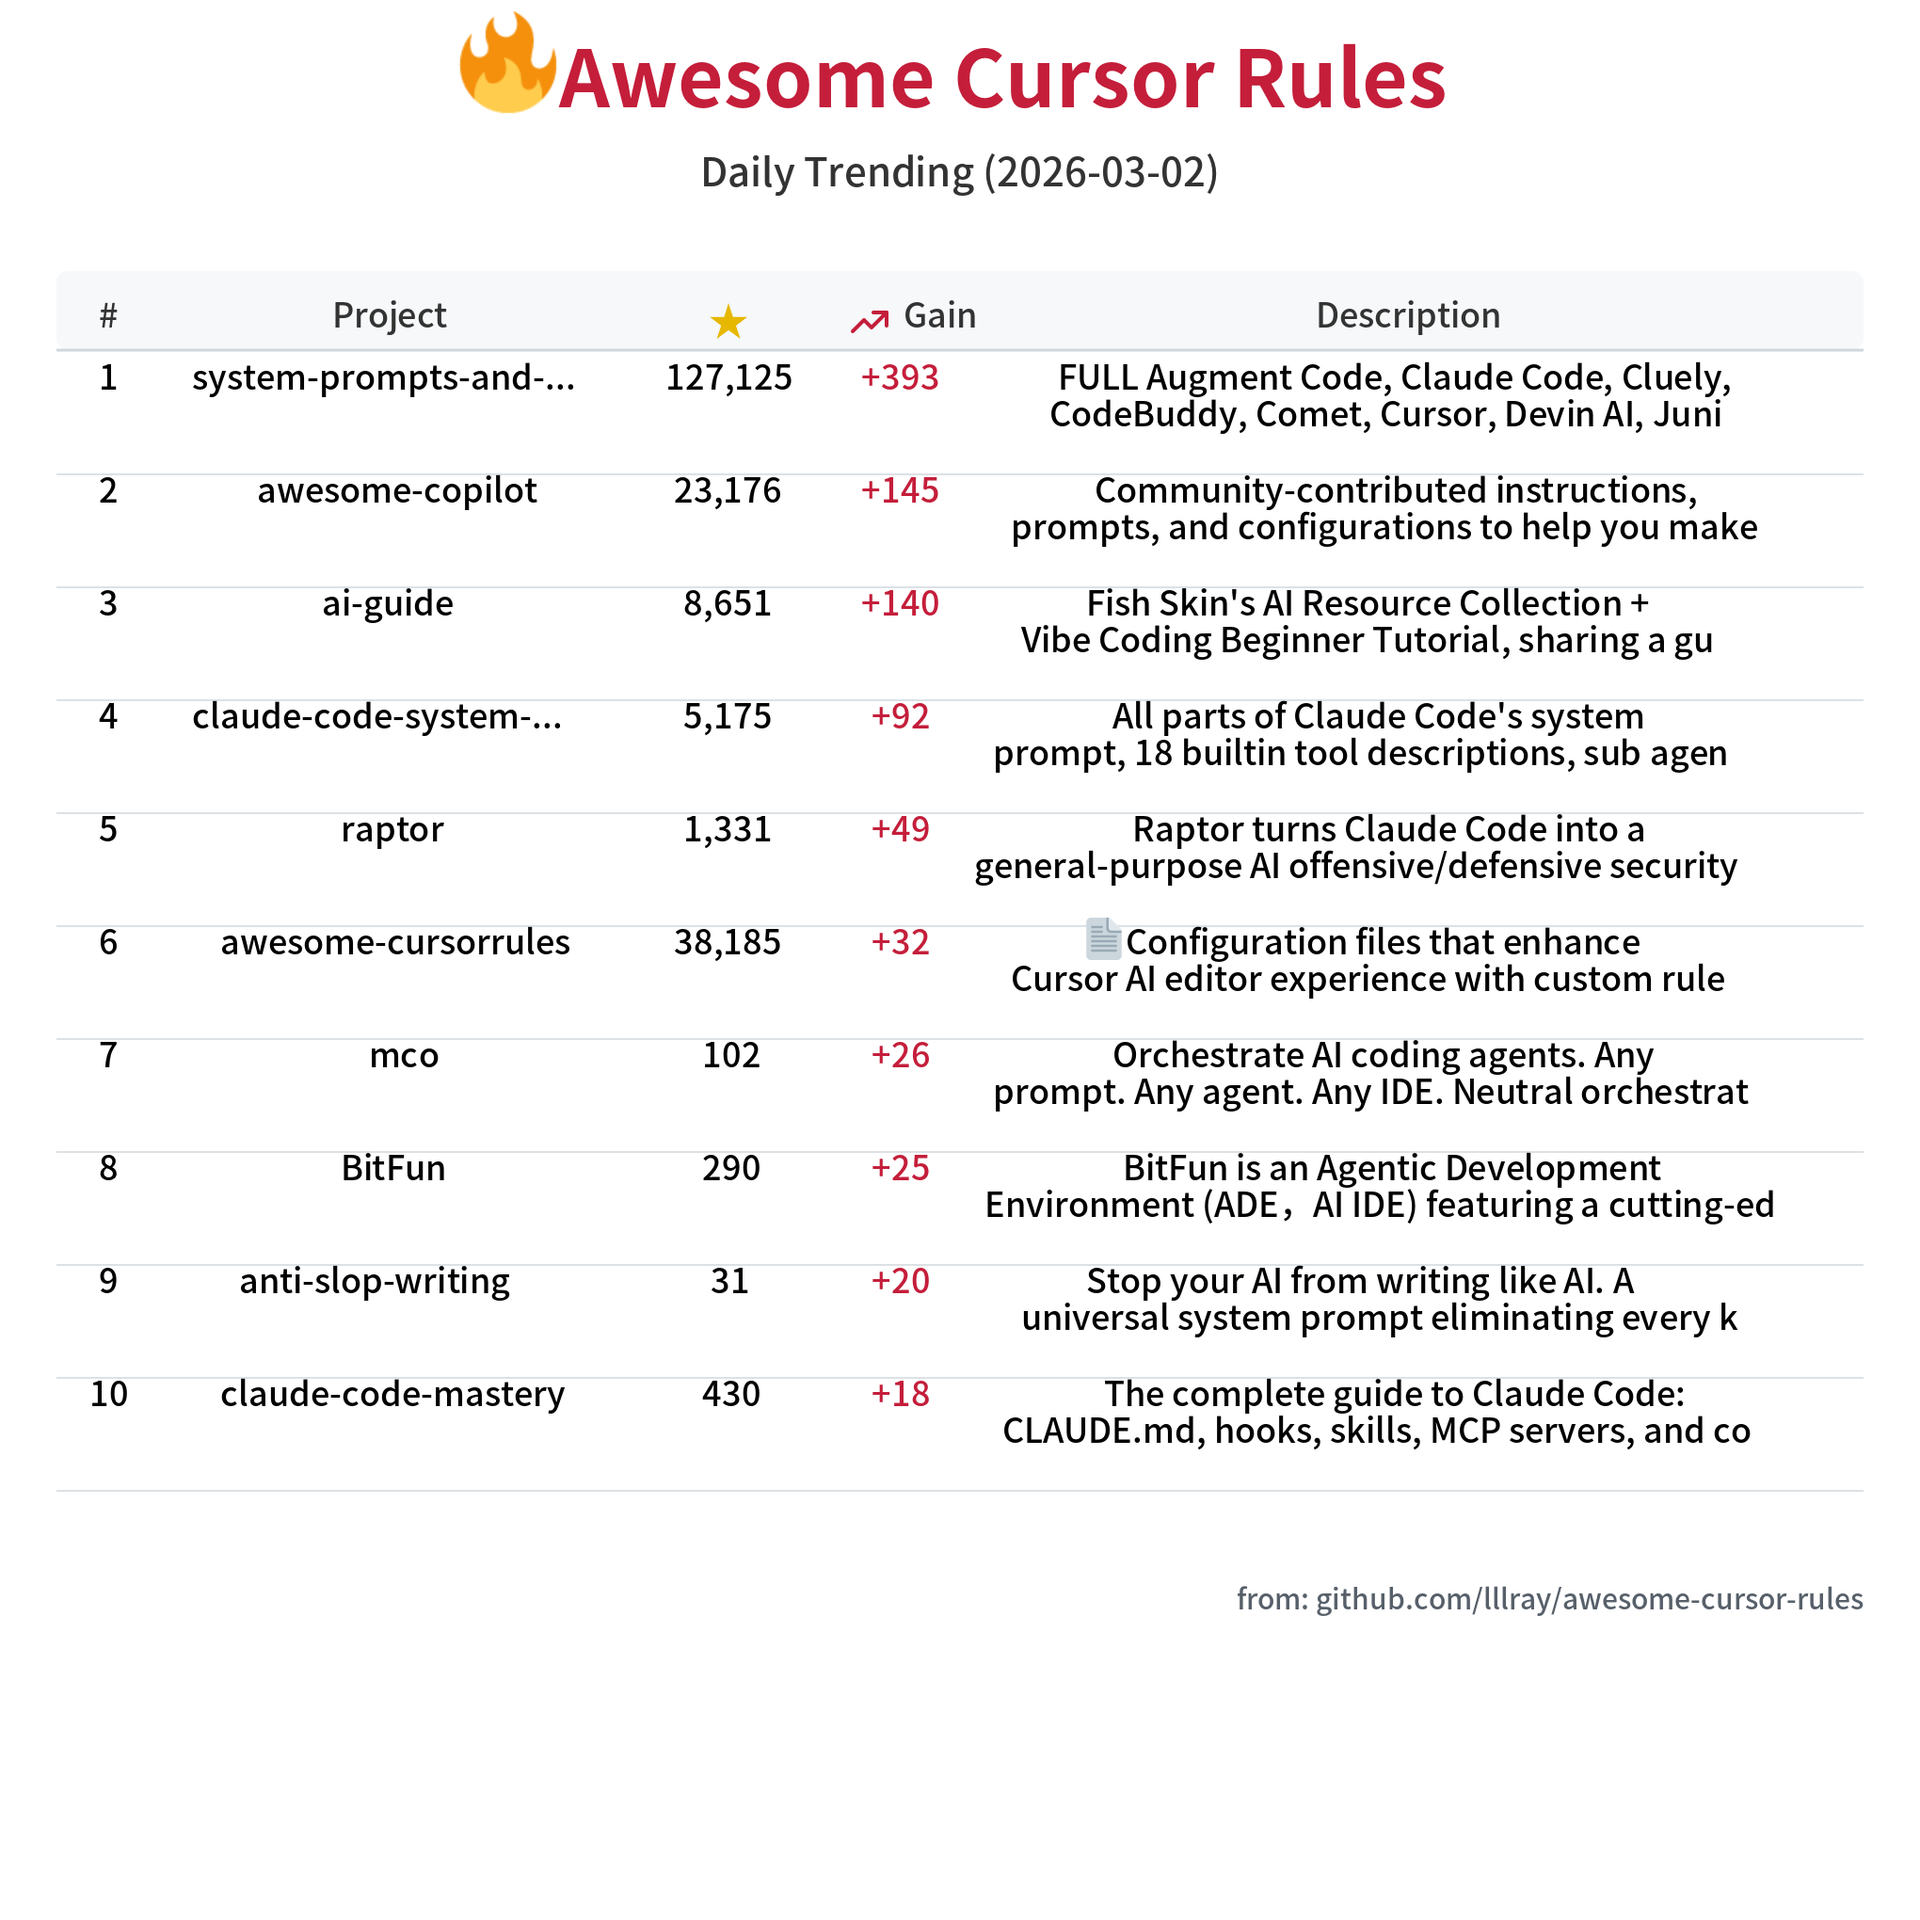
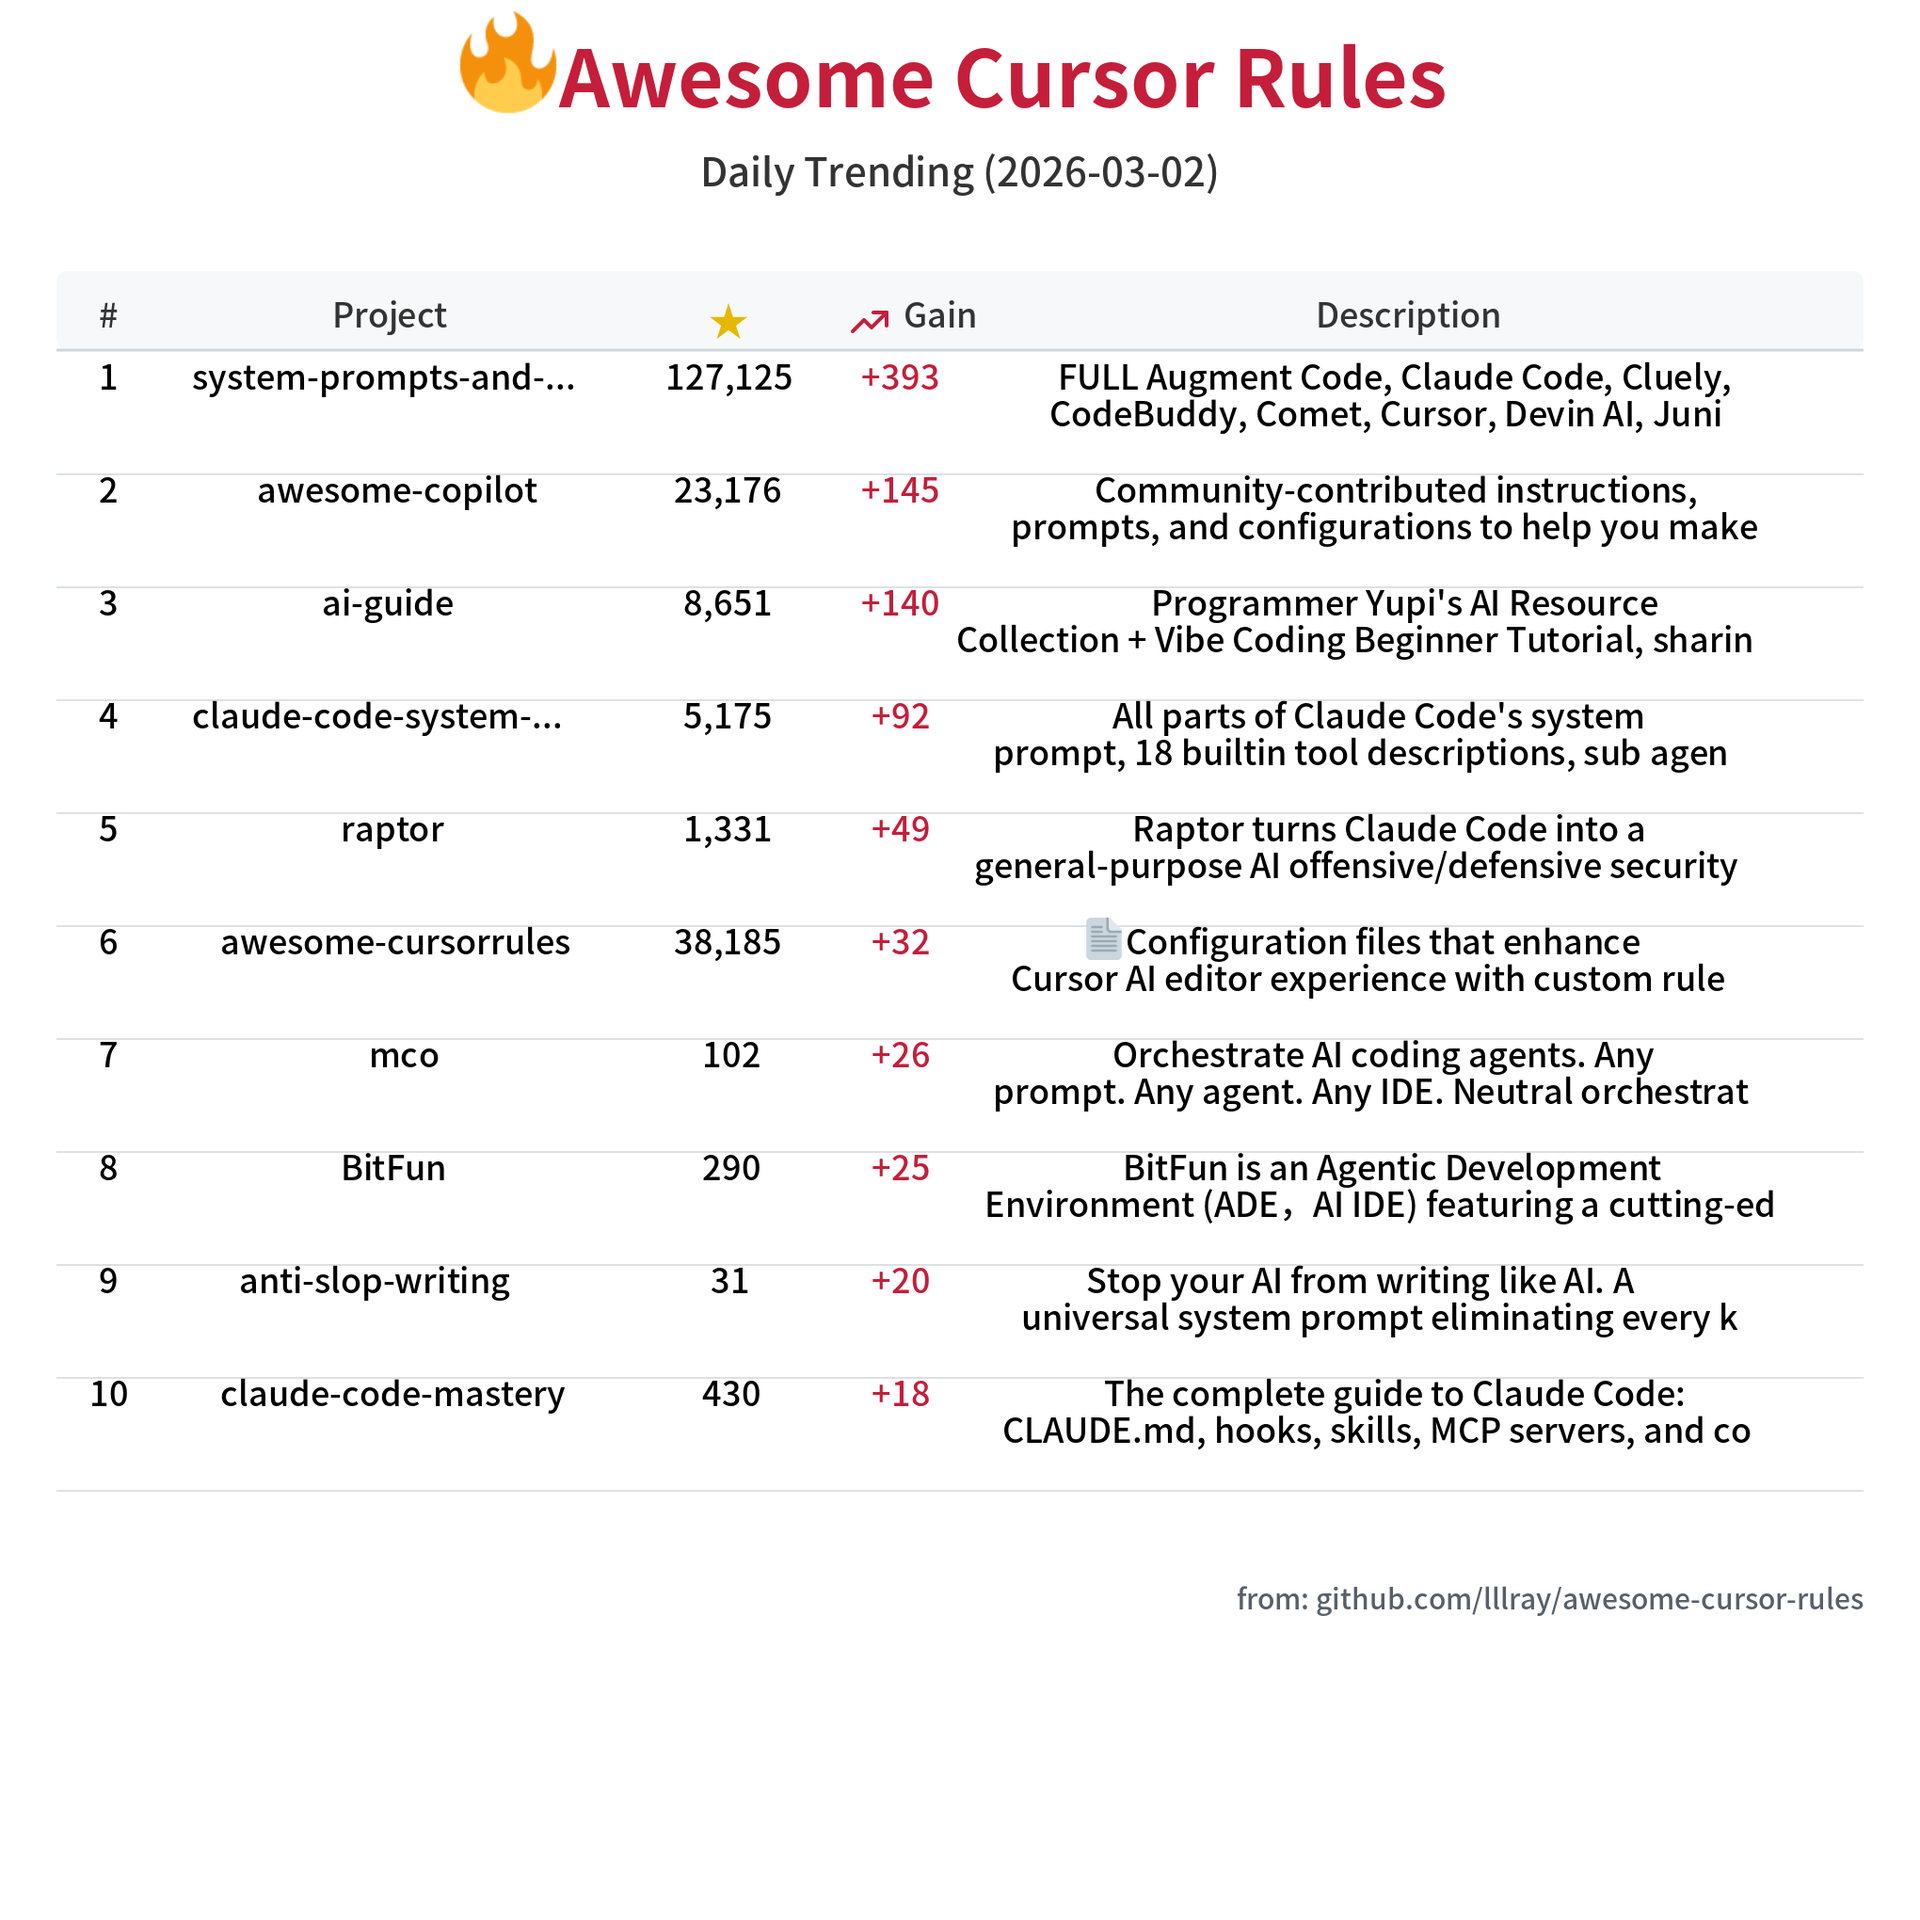
docs: 重新翻译每日热门描述 - 2026-03-02 21:51:18

Changed region(s): [[0.4941, 0.3088, 0.8956, 0.3397]]

diff --git a/README_ZH.md b/README_ZH.md
@@ -35,25 +35,25 @@
 | # | 项目 | ⭐ | 📈 日增 | 描述 |
 |:-:|------|---:|-------:|------|
 | 1 | [x1xhlol/system-prompts-and-models-of-ai-tools](https://github.com/x1xhlol/system-prompts-and-models-of-ai-tools) | 127,125 | +393 | 完整增强代码,克劳德代码,克鲁利,代码Buddy,彗星,课程,德文AI,朱尼,基罗,Leap.new... |
-| 2 | [github/awesome-copilot](https://github.com/github/awesome-copilot) | 23,176 | +145 | 社区贡献的指令、提示和配置，帮助您充分利用 GitHub Copilot。 |
+| 2 | [github/awesome-copilot](https://github.com/github/awesome-copilot) | 23,176 | +145 | 社区贡献的指令、提示和配置，帮助您充分利用GitHub Copilot。 |
 | 3 | [liyupi/ai-guide](https://github.com/liyupi/ai-guide) | 8,651 | +140 | 程序员鱼皮的AI 资源大全 + 振动编码 零基础教程,分享大模型选择指南(DeepSeek / GP... |
-| 4 | [Piebald-AI/claude-code-system-prompts](https://github.com/Piebald-AI/claude-code-system-prompts) | 5,175 | +92 | All parts of Claude Code's system prompt, 18 built... |
-| 5 | [gadievron/raptor](https://github.com/gadievron/raptor) | 1,331 | +49 | Raptor turns Claude Code into a general-purpose AI... |
-| 6 | [PatrickJS/awesome-cursorrules](https://github.com/PatrickJS/awesome-cursorrules) | 38,185 | +32 |  通过定制规则和行为来增强Cursor AI编辑体验的配置文件 |
-| 7 | [mco-org/mco](https://github.com/mco-org/mco) | 102 | +26 | Orchestrate AI coding agents. Any prompt. Any agen... |
-| 8 | [GCWing/BitFun](https://github.com/GCWing/BitFun) | 290 | +25 | BitFun is an Agentic Development Environment (ADE，... |
-| 9 | [adenaufal/anti-slop-writing](https://github.com/adenaufal/anti-slop-writing) | 31 | +20 | Stop your AI from writing like AI. A universal sys... |
-| 10 | [TheDecipherist/claude-code-mastery](https://github.com/TheDecipherist/claude-code-mastery) | 430 | +18 | The complete guide to Claude Code: CLAUDE.md, hook... |
+| 4 | [Piebald-AI/claude-code-system-prompts](https://github.com/Piebald-AI/claude-code-system-prompts) | 5,175 | +92 | 所有部分的CLAUDE Code系统提示,18个构建工具描述,子代理提示 (计划/探索/任务),实用... |
+| 5 | [gadievron/raptor](https://github.com/gadievron/raptor) | 1,331 | +49 | Raptor将Claude Code转变为通用AI攻防安全代理。通过使用Claude.md并创建规则... |
+| 6 | [PatrickJS/awesome-cursorrules](https://github.com/PatrickJS/awesome-cursorrules) | 38,185 | +32 | 📄 通过自定义规则和行为增强Cursor AI编辑器体验的配置文件 |
+| 7 | [mco-org/mco](https://github.com/mco-org/mco) | 102 | +26 | 协调AI编码代理。任何提示。任何代理。任何IDE。Claude Code、Codex CLI、Gem... |
+| 8 | [GCWing/BitFun](https://github.com/GCWing/BitFun) | 290 | +25 | BitFun是一个代理开发环境（ADE，AI IDE），具有前沿的代码代理系统，包含四种模式——代理... |
+| 9 | [adenaufal/anti-slop-writing](https://github.com/adenaufal/anti-slop-writing) | 31 | +20 | 阻止你的AI写出AI风格。一个通用系统提示，消除所有已知的LLM风格特征——适用于Claude Co... |
+| 10 | [TheDecipherist/claude-code-mastery](https://github.com/TheDecipherist/claude-code-mastery) | 430 | +18 | 克劳德代码的完整指南:CLAUDE.md,,技能,MCP服务器和命令 |
 | 11 | [elder-plinius/CL4R1T4S](https://github.com/elder-plinius/CL4R1T4S) | 13,037 | +16 | 泄露的系统提示:CHATGPT,GEMINI,GROK,CLAUDE,PERPLEXITY,CURS... |
-| 12 | [microsoft/skills](https://github.com/microsoft/skills) | 1,571 | +15 | Skills, MCP servers, Custom Agents, Agents.md for ... |
-| 13 | [Piebald-AI/tweakcc](https://github.com/Piebald-AI/tweakcc) | 1,209 | +14 | Customize Claude Code's system prompts, create cus... |
-| 14 | [MrLesk/Backlog.md](https://github.com/MrLesk/Backlog.md) | 4,916 | +12 | Backlog.md - A tool for managing project collabora... |
-| 15 | [refly-ai/refly](https://github.com/refly-ai/refly) | 6,874 | +11 | 建立Clawdbot · API 对于可爱的 · 机器人对于 Slack & Lark/Feishu... |
-| 16 | [enulus/OpenPackage](https://github.com/enulus/OpenPackage) | 393 | +10 | The open, universal, coding agent skills, agents, ... |
-| 17 | [prompt-security/clawsec](https://github.com/prompt-security/clawsec) | 555 | +9 | A complete security skill suite for OpenClaw's and... |
-| 18 | [IsHexx/system-prompts-and-models-of-ai-tools-chinese](https://github.com/IsHexx/system-prompts-and-models-of-ai-tools-chinese) | 928 | +8 | AI编程工具中文提示词合集，包含Cursor、Devin、VSCode Agent等多种AI编程工具... |
-| 19 | [originalankur/GenerateAgents.md](https://github.com/originalankur/GenerateAgents.md) | 227 | +8 | Automated generation of comprehensive Agents.md fo... |
-| 20 | [alirezarezvani/ClaudeForge](https://github.com/alirezarezvani/ClaudeForge) | 273 | +7 | A CLAUDE.md Generator and Maintenance tool for for... |
+| 12 | [microsoft/skills](https://github.com/microsoft/skills) | 1,571 | +15 | 技能、MCP服务器、自定义代理、用于SDK以落地编码代理的Agents.md |
+| 13 | [Piebald-AI/tweakcc](https://github.com/Piebald-AI/tweakcc) | 1,209 | +14 | 定制Claude Code的系统提示，创建自定义工具集、输入模式高亮器、主题/思考动词/旋转器，定制... |
+| 14 | [MrLesk/Backlog.md](https://github.com/MrLesk/Backlog.md) | 4,916 | +12 | 后载.md - 在 Git 生态系统中管理人类和人工智能代理人之间的项目合作工具 |
+| 15 | [refly-ai/refly](https://github.com/refly-ai/refly) | 6,874 | +11 | 首个开源代理技能构建器。通过氛围工作流定义技能，在Claude Code、Cursor、Codex等... |
+| 16 | [enulus/OpenPackage](https://github.com/enulus/OpenPackage) | 393 | +10 | 开放,通用,编码代理技能,代理,规则,命令组织者和包管理者. |
+| 17 | [prompt-security/clawsec](https://github.com/prompt-security/clawsec) | 555 | +9 | 保护你的SOUL.md (等) 通过漂移检测,现场安全建议,自动审计和技能完整性验证.所有这些都从一... |
+| 18 | [IsHexx/system-prompts-and-models-of-ai-tools-chinese](https://github.com/IsHexx/system-prompts-and-models-of-ai-tools-chinese) | 928 | +8 | 包含Cursor、Devin、VSCode Agent等多种AI编程工具的提示词,为中文开发人员提供... |
+| 19 | [originalankur/GenerateAgents.md](https://github.com/originalankur/GenerateAgents.md) | 227 | +8 | 由DSPy递归语言模型实现驱动的LLM全面Agents.md自动生成。 |
+| 20 | [alirezarezvani/ClaudeForge](https://github.com/alirezarezvani/ClaudeForge) | 273 | +7 | 为了创建高质量的CLAUDE.md指令文件, 与Anthropic的最佳做法一致. |
 
 ---
 
@@ -466,4 +466,4 @@ git clone https://github.com/lllray/awesome-cursor-rules.git
 
 ---
 
-<p align="center"><sub>✨ 自动整理 · 2026-03-02 21:34:23</sub></p>
+<p align="center"><sub>✨ 自动整理 · 2026-03-02 21:51:18</sub></p>

diff --git a/README.md b/README.md
@@ -36,7 +36,7 @@
 |:-:|---------|---:|-------:|-------------|
 | 1 | [x1xhlol/system-prompts-and-models-of-ai-tools](https://github.com/x1xhlol/system-prompts-and-models-of-ai-tools) | 127,125 | +393 | FULL Augment Code, Claude Code, Cluely, CodeBuddy, Comet, Cu |
 | 2 | [github/awesome-copilot](https://github.com/github/awesome-copilot) | 23,176 | +145 | Community-contributed instructions, prompts, and configurati |
-| 3 | [liyupi/ai-guide](https://github.com/liyupi/ai-guide) | 8,651 | +140 | Fish Skin's AI Resource Collection + Vibe Coding Beginner Tu |
+| 3 | [liyupi/ai-guide](https://github.com/liyupi/ai-guide) | 8,651 | +140 | Programmer Yupi's AI Resource Collection + Vibe Coding Begin |
 | 4 | [Piebald-AI/claude-code-system-prompts](https://github.com/Piebald-AI/claude-code-system-prompts) | 5,175 | +92 | All parts of Claude Code's system prompt, 18 builtin tool de |
 | 5 | [gadievron/raptor](https://github.com/gadievron/raptor) | 1,331 | +49 | Raptor turns Claude Code into a general-purpose AI offensive |
 | 6 | [PatrickJS/awesome-cursorrules](https://github.com/PatrickJS/awesome-cursorrules) | 38,185 | +32 | 📄  Configuration files that enhance Cursor AI editor experie |
@@ -51,7 +51,7 @@
 | 15 | [refly-ai/refly](https://github.com/refly-ai/refly) | 6,874 | +11 | The first open-source agent skills builder. Define skills by |
 | 16 | [enulus/OpenPackage](https://github.com/enulus/OpenPackage) | 393 | +10 | The open, universal, coding agent skills, agents, rules, and |
 | 17 | [prompt-security/clawsec](https://github.com/prompt-security/clawsec) | 555 | +9 | A complete security skill suite for OpenClaw's and NanoClaw  |
-| 18 | [IsHexx/system-prompts-and-models-of-ai-tools-chinese](https://github.com/IsHexx/system-prompts-and-models-of-ai-tools-chinese) | 928 | +8 | AI编程工具中文提示词合集，包含Cursor、Devin、VSCode Agent等多种AI编程工具的提示词，为中文开发 |
+| 18 | [IsHexx/system-prompts-and-models-of-ai-tools-chinese](https://github.com/IsHexx/system-prompts-and-models-of-ai-tools-chinese) | 928 | +8 | A collection of Chinese prompt words for AI programming tool |
 | 19 | [originalankur/GenerateAgents.md](https://github.com/originalankur/GenerateAgents.md) | 227 | +8 | Automated generation of comprehensive Agents.md for LLMs, dr |
 | 20 | [alirezarezvani/ClaudeForge](https://github.com/alirezarezvani/ClaudeForge) | 273 | +7 | A CLAUDE.md Generator and Maintenance tool for for Claude Co |
 
@@ -458,4 +458,4 @@ Pull requests welcome!
 
 ---
 
-<p align="center"><sub>✨ Auto-curated · 2026-03-02 21:34:23</sub></p>
+<p align="center"><sub>✨ Auto-curated · 2026-03-02 21:51:18</sub></p>
